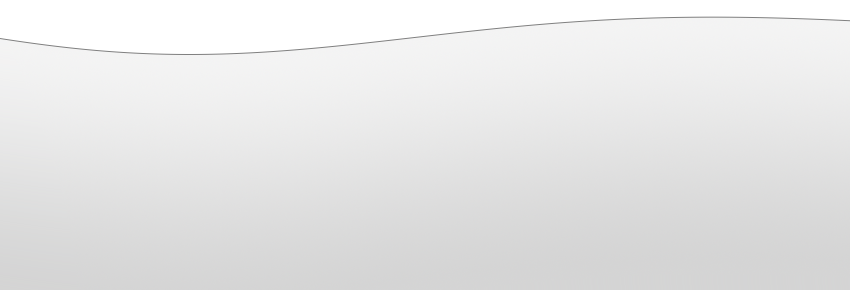
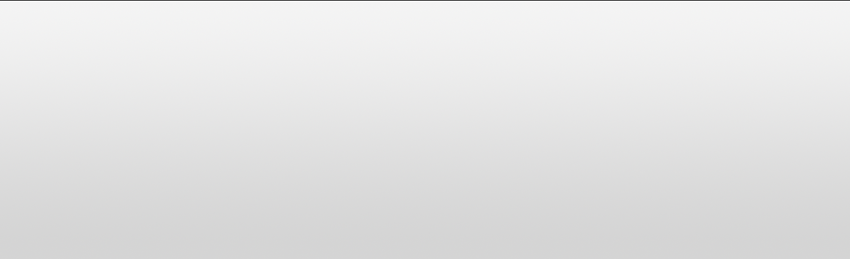
lcb

diff --git a/Instances/sentirsaude/frontend/structure.sass b/Instances/sentirsaude/frontend/structure.sass
@@ -76,13 +76,10 @@ div#content
   -moz-box-shadow: 0 0 4px #111, inset 0 0 50px rgba(0, 0, 0, 0.1)
   box-shadow: 0 0 4px #111, inset 0 0 50px rgba(0, 0, 0, 0.1)
 
-  div#main
-    margin-bottom: 0
-
   div#footer
     background-image: url('/images/footer.png')
     clear: both
-    height: 290px
+    height: 259px
     position: relative
     width: 850px
 
@@ -103,7 +100,7 @@ div#content
       background-repeat: no-repeat
       display: inline-block
       height: 140px
-      margin-top: 80px
+      margin-top: 40px
       padding: 0 20px
       vertical-align: top
       width: 240px
